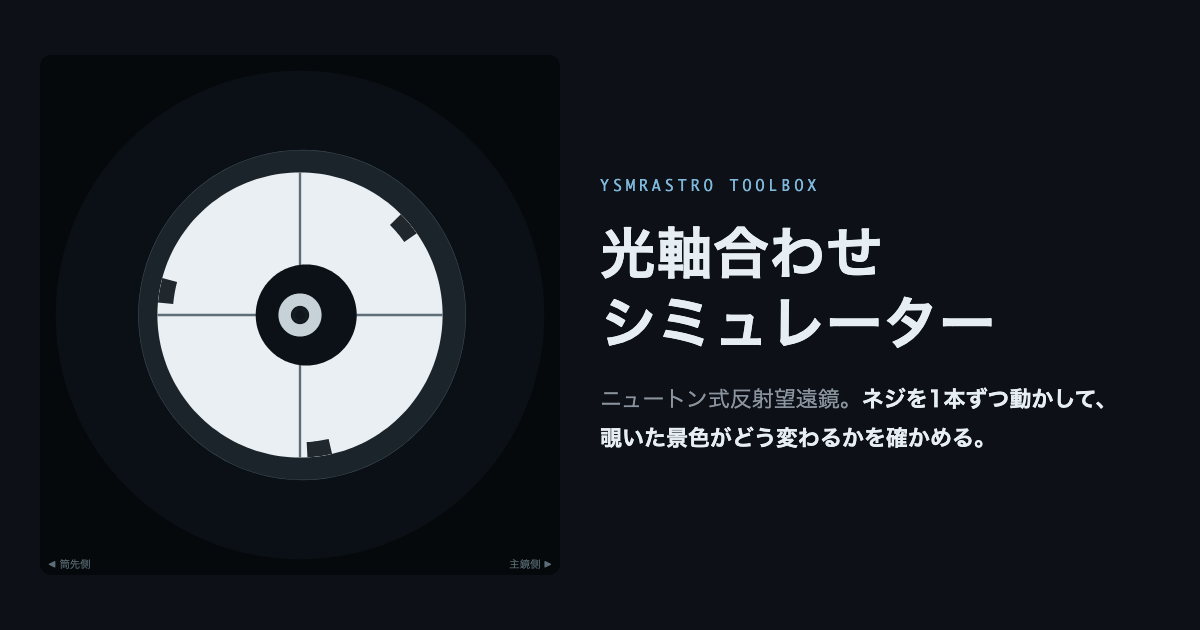
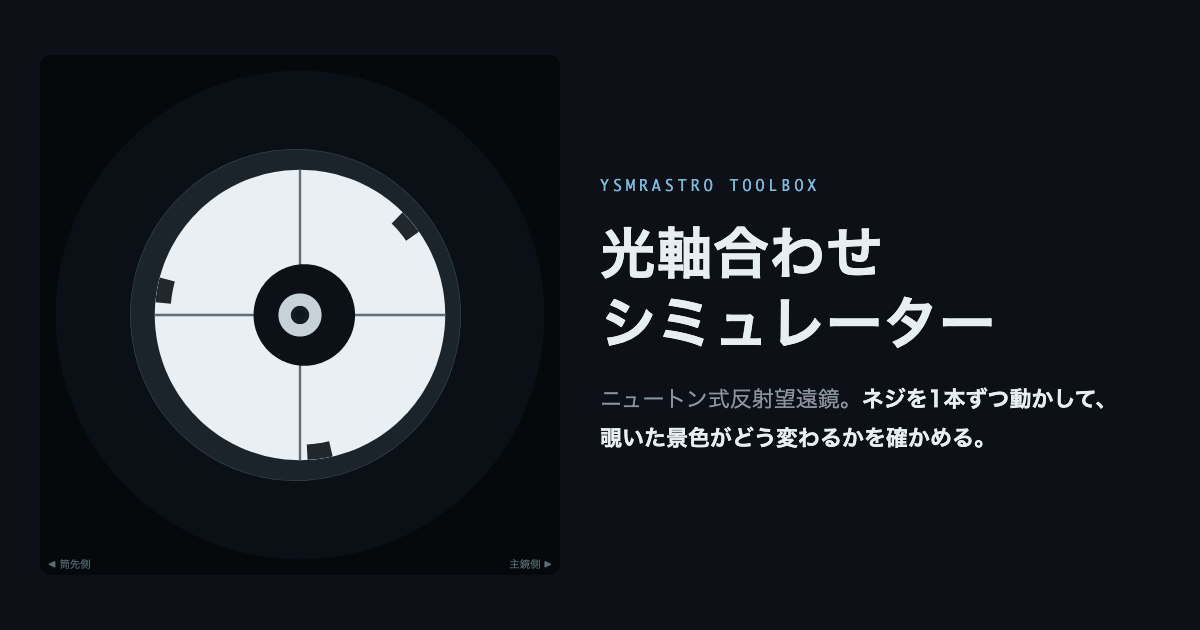
光軸合わせシミュレーター: 前提を公開済みの第1回・第2回に戻す
さとしさんの指摘。第3回はまだ執筆中で、前提にするに足る状態ではない。

## まずかったこと

書きかけの記事のために写真から逆算した値を既定値にし、そこから出る結論
まで公開ページに書いていた。ここは公開物なので、記事より先に出てしまう。

## 直した

数値の前提を、公開済みの第1回・第2回だけに置いた。

  交点から焦点面まで   190mm   （第1回の仮定）
  オフセット           2.714mm （上から決まる値。第1回）

これで光の切り口は斜鏡のまんなかに収まる ── 第2回の図5がそのまま出る。
このページが二分法で解くオフセットも 2.714mm で、第1回の値と一致する。

「実機と照合した」の節と、そこから出る話（実機はより多くずらしてある、
輪の太いのは主鏡側、など）は全部落とした。代わりに、手で解ける値との
検算だけを載せている。

  切り口が鏡の中心に来るオフセット  2.714mm
  光の切り口／斜鏡  長軸 0.8530 ／ 短軸 0.8487
  鏡の余り          長軸の端 4.68mm ／ 短軸の端 3.40mm

長軸と短軸で余りが違う（4.68 と 3.40）。切り口の楕円のほうが少しだけ
細長いため。一周同じ太さではない。

## 仮の値であることを画面に出した

寸法（口径・焦点距離・斜鏡短径・差込口）以外は全部仮の値で、交点から
焦点面まで・覗き穴から交点まで・アイピースの裏側の寸法は未実測である、
と「数値の前提」の表に書いた。この4つを測れば絵は一点に決まる。

OFFSET は L から決まる従属値なので、L を変えたら一緒に直す必要がある。
ページが OFFSET_IDEAL を解いて表示するので、ずれれば画面に出る。

?v= は 1.3.0。絵が変わったので ogp.png も作り直した。

🤖 Generated with [Claude Code](https://claude.com/claude-code)

https://claude.ai/code/session_01AnMYFrmn61oSqMNSD4B7oT

diff --git a/collimation/index.html b/collimation/index.html
@@ -28,7 +28,7 @@
   <link rel="stylesheet" href="../shared/css/reset.css">
   <link rel="stylesheet" href="../shared/css/components.css">
   <link rel="stylesheet" href="../shared/css/layout.css">
-  <link rel="stylesheet" href="style.css?v=1.2.1">
+  <link rel="stylesheet" href="style.css?v=1.3.0">
 </head>
 <body>
 
@@ -123,8 +123,10 @@
       <h3>構造</h3>
       <p><b>スパイダーの4本は均一に張ってあり、台は筒の中心軸の上にあります。</b>
          オフセットはスパイダーで作るものではなく、<b>鏡を土台のどこに貼るか</b>で作ります ──
-         土台の軸から、面に沿って主鏡側へ 3.95mm ずらして貼ってある、という形にしてあります。
+         土台の軸から、面に沿って主鏡側へ <b>2.714mm</b> ずらして貼ってある、という形にしてあります。
          だから貼り付けの向きが回ると、オフセットの向きも一緒に回ります。</p>
+      <p>台ごと寄せてオフセットを作ると、<b>スパイダーの交点（2回反射）が主鏡の中心から 4% 以上外れます。</b>
+         構造どおりなら 0% です。</p>
       <p>斜鏡の押しネジ3本と引きネジ1本は、<b>ステム軸（＝筒の中心軸）に沿って</b>効きます。
          3本を同じだけ回しても傾かず、前後に動くだけです。</p>
       <p><b>「斜鏡の回転」は、中央の引きネジをゆるめて土台の柱ごと回す動き</b>です。
@@ -133,38 +135,40 @@
          1° 回すだけで、主鏡の像は視野の 12.8%（主鏡の見かけの半径に対して）ずれます。
          だから回転は、傾きを合わせる前に決めておくものです。</p>
 
-      <p><b>合っている状態でも、光の切り口は鏡のまんなかに来ません。</b>
-         切り口が鏡の中心にちょうど来るオフセットは <b>2.54mm</b> ですが、ここでは <b>3.95mm</b> を
-         仮定しているためです。<b>2.54mm という値そのものも、交点から焦点面までを 178mm と
-         置いた結果</b>です ── 190mm と置けば 2.71mm になります。ここも未実測です。この 3.95mm は実測ではなく、<b>覗いた写真からの逆算</b>
-         ── 斜鏡の縁がどれだけ主鏡側へ寄って見えるかから求めた値です。
-         第1回で説明した「明るさが対称になる量」より多い、というのが実機を測って出てきた話で、
-         <b>覗き穴から交点までの距離を測れば一点に決まります。</b></p>
-
-      <h3>実機と照合した</h3>
+      <h3>数値の前提</h3>
       <p>BKP130（口径 130mm・焦点距離 650mm・F5・斜鏡短径 45mm・差込口 2インチ）。
-         合っている状態の見え方を、実写を測った値と突き合わせてあります。</p>
+         <b>寸法以外は、すべて仮の値です。</b></p>
       <table class="cl-read">
-        <tr><th>斜鏡の縁／主鏡の縁 の大きさ比</th><td>1.149（実測 1.153）</td></tr>
-        <tr><th>斜鏡の縁の偏心</th><td>1.45% 主鏡側（実測 1.31% 主鏡側）</td></tr>
-        <tr><th>斜鏡のシルエットの偏心</th><td>4.36% 主鏡側（実測 4.73% 主鏡側）</td></tr>
-        <tr><th>シルエットの見かけ半径</th><td>35.4%（実測 35.4%）</td></tr>
-        <tr><th>輪の太さ</th><td>1.21 倍・太いのは主鏡側（実測 1.29 倍・主鏡側）</td></tr>
+        <tr><th>交点から焦点面まで</th><td>190mm ── <b>未実測</b></td></tr>
+        <tr><th>オフセット</th><td>2.714mm ── 上の 190mm から決まる値（切り口を鏡の中心に合わせる量）</td></tr>
+        <tr><th>覗き穴から交点まで</th><td>199mm ── <b>未実測</b></td></tr>
+        <tr><th>アイピースの裏側／覗き穴の半径</th><td>9.52mm／4.03mm ── <b>未実測</b></td></tr>
+      </table>
+      <p><b>この4つを実機で測れば、絵は一点に決まります。</b>いまは仮の値で描いているので、
+         実機の見え方とは細かいところが違うはずです。</p>
+
+      <h3>検算</h3>
+      <p>幾何が正しく組めているかは、手で解ける値と突き合わせてあります。</p>
+      <table class="cl-read">
+        <tr><th>切り口が鏡の中心に来るオフセット</th><td>2.714mm（このページが二分法で解いた値）</td></tr>
+        <tr><th>光の切り口／斜鏡（長軸）</th><td>0.8530</td></tr>
+        <tr><th>光の切り口／斜鏡（短軸）</th><td>0.8487</td></tr>
+        <tr><th>鏡の余り</th><td>長軸の端 4.68mm ／ 短軸の端 3.40mm</td></tr>
       </table>
 
       <h3>近似の限界</h3>
       <ul>
-        <li>交点〜焦点面 178mm、覗き穴は交点から 199mm、オフセット 3.95mm は<b>まだ実測できていない仮定値</b>です</li>
         <li>主鏡を近軸で扱っているので、視野の端のほうの 2回・3回の像はわずかに歪みます</li>
-        <li><b>返ってくる像（3回）の大きさ</b>は覗き穴の距離にとても敏感です ── 焦点のすぐ外側に物体があるためで、
-            実写でも撮るたびに変わります。<b>位置のほうは安定しています。</b></li>
+        <li><b>返ってくる像（3回）の大きさ</b>は、覗き穴の距離と裏側の寸法で決まります。
+            どちらも仮の値なので、実機と同じ大きさにはなりません。<b>位置のほうは安定しています。</b></li>
         <li>主鏡の押しネジは<b>傾きだけ</b>を効かせています。3本を同じだけ回すと本当はピントが前後しますが、
             そうすると 3回反射の像の大きさが暴れて見づらいので入れていません</li>
+        <li>斜鏡の土台の柱は、ステム軸が筒の中心軸と平行だとしています（Synta 型の想定）</li>
       </ul>
     </div>
   </details>
 </div>
 
-<script src="app.js?v=1.2.1"></script>
+<script src="app.js?v=1.3.0"></script>
 </body>
 </html>

diff --git a/collimation/app.js b/collimation/app.js
@@ -23,9 +23,9 @@ const P = {
   F_PM   : 650,     // 主鏡の焦点距離
   SEC_A  : 45*Math.SQRT2/2,  // 斜鏡の長半径 31.82
   SEC_B  : 45/2,             // 斜鏡の短半径 22.5
-  L      : 472,     // 交点の z（＝650 − 交点から焦点面まで 178）
-  EYE    : 199,     // 覗き穴の、交点からの距離
-  OFFSET : 3.95,    // オフセット（面に沿って、主鏡側へ）
+  L      : 460,     // 交点の z（＝650 − 交点から焦点面まで 190。第1回の仮定）
+  EYE    : 199,     // 覗き穴の、交点からの距離（仮の値・未実測）
+  OFFSET : 2.714,   // オフセット（面に沿って、主鏡側へ。第1回の値）
   R_FIELD: 25.4,    // ドローチューブの内半径（2インチ）
   D_FIELD: 46,      // 視野環（ドローチューブの先）の、交点からの距離
   R_TUBE : 75,      // 筒の内半径
@@ -33,8 +33,8 @@ const P = {
   R_PSCR : 55,      // 主鏡の押しネジの配置半径
   MARK_IN: 2.13,    // センターマークの穴の半径
   MARK_OUT:3.90,    // センターマークの外半径
-  EPB_R  : 9.52,    // アイピースの裏側（銀の面）の半径
-  EPB_H  : 4.03,    // 覗き穴の半径
+  EPB_R  : 9.52,    // アイピースの裏側（銀の面）の半径（仮の値・未実測）
+  EPB_H  : 4.03,    // 覗き穴の半径（仮の値・未実測）
   CLIPS  : [10,140,262]  // 押さえの爪（度）
 };
 
@@ -360,7 +360,7 @@ function drawView(g,o,guide){
   ctx.textAlign='right'; ctx.fillText('主鏡側 ▶',w-8,h-fv2); ctx.textAlign='left';
 }
 
-// 最小二乗で円をあてはめる（第3回の measure_center.py と同じ代数解法）。
+// 最小二乗で円をあてはめる（代数解法）。
 // 射影された楕円は点の並びが偏るので、重心を中心にすると値がずれる。
 function fitCircle(pts){
   if(!pts||pts.length<3) return null;
@@ -739,15 +739,15 @@ function faceNote(g){
   const rp=coneRadius(g,g.fu), rm=coneRadius(g,V.mul(g.fu,-1));
   if(rp===null||rm===null){ el.textContent=''; return; }
   const d=(rp-rm)/2;
-  const side = d>0 ? '筒先側' : '主鏡側';
-  el.innerHTML =
-    'オフセットは <b>'+P.OFFSET.toFixed(2)+'mm</b> と仮定しています。'+
-    '光の切り口が鏡のまんなかにちょうど来るのは <b>'+OFFSET_IDEAL.toFixed(2)+'mm</b>'+
-    '（交点から焦点面まで '+(P.F_PM-P.L).toFixed(0)+'mm と置いた場合。190mm なら 2.71mm）── '+
-    'つまり<b>この鏡は、そのぶん多くずらして貼ってある</b>ことになります。'+
-    'だから合っていても、切り口は '+Math.abs(d).toFixed(2)+'mm だけ'+side+'へ寄ります。'+
-    '<br>この 2つの差は実測ではなく、覗いた写真からの逆算です。'+
-    '<b>覗き穴から交点までの距離を実機で測れば、一点に決まります。</b>';
+  const base =
+    '光の切り口が鏡のまんなかにちょうど来るオフセットは <b>'+OFFSET_IDEAL.toFixed(3)+'mm</b>'+
+    '（交点から焦点面までを '+(P.F_PM-P.L).toFixed(0)+'mm と置いた場合）。'+
+    'ここではその値を使っています。';
+  el.innerHTML = Math.abs(d)<0.05
+    ? base+'<b>だから切り口は、鏡のまんなかに収まります。</b>'+
+      'オフセットは、この2つの中心を合わせるための操作でした。'
+    : base+'いまは <b>'+P.OFFSET.toFixed(3)+'mm</b> なので、'+
+      '切り口が '+Math.abs(d).toFixed(2)+'mm だけ'+(d>0?'筒先側':'主鏡側')+'へ寄っています。';
 }
 
 function render(){

diff --git a/collimation/style.css b/collimation/style.css
@@ -5,7 +5,7 @@
   --tb-font-size-sm: 0.875rem;   /* 14px */
   --tb-font-size-lg: 1.125rem;   /* 18px */
 
-  /* 反射の回数の色（note 第3回の図と揃える） */
+  /* 反射の回数の色 */
   --cl-r0: #63B6D8;
   --cl-r1: #E5A052;
   --cl-r2: #B39BDB;

diff --git a/collimation/README.md b/collimation/README.md
@@ -9,7 +9,7 @@ https://ysmrastro.github.io/toolbox/collimation/
 
 | ペイン | 中身 |
 |---|---|
-| センタリングアイピースの視野 | 覗いた景色。左が筒先側、右が主鏡側（実写と同じ向き） |
+| センタリングアイピースの視野 | 覗いた景色。左が筒先側、右が主鏡側 |
 | 筒の断面 | 斜鏡の位置と角度。覗き穴から出した視線が、戻ってきたときどれだけ外れるかも出す |
 | 斜鏡を面の正面から | 鏡の楕円と、主鏡から来る光の切り口 |
 | 調整パラメータ | まんなかが合っている状態。数字をタップすると 0 に戻る |
@@ -43,7 +43,7 @@ https://ysmrastro.github.io/toolbox/collimation/
 だから**貼り付けの向きが回ると、オフセットの向きも一緒に回る。**
 
 最初はオフセットをスパイダーの台ごと寄せて作っていた。それだと**スパイダーの交点（2回反射）が
-主鏡の中心から 4.4% 外れる**。実測は 1.68%（ほぼ中心）なので、構造が違うとすぐ分かる。
+主鏡の中心から 4% 以上外れる**。構造どおりなら 0%。
 
 斜鏡の押しネジ3本と引きネジ1本は、**ステム軸（＝筒の中心軸）に沿って**効く。
 3本を同じだけ回しても傾かず、前後に動くだけ。
@@ -53,51 +53,44 @@ https://ysmrastro.github.io/toolbox/collimation/
 変わるのではなく、**視野そのものが動く。**1° で主鏡の像が視野の 12.8% ずれる。
 だから範囲は ±6°。**傾きを合わせる前に決めるもの**、という順番がここに出る。
 
-### 合っていても、光の切り口は鏡のまんなかに来ない
-
-**切り口が鏡の中心にちょうど来るオフセットは 2.54mm。**いま仮定しているのは **3.95mm** なので、
-差の **1.41mm** ぶん、切り口が筒先側へ寄る。斜鏡ペインの下にこの数字を出している
-（`OFFSET_IDEAL` を起動時に二分法で解いている）。
-
-3.95mm は**実測ではなく、覗いた写真からの逆算**（斜鏡の縁がどれだけ主鏡側へ寄って見えるか）。
-第1回で説明した「明るさが対称になる量」（2.714mm）より多い、というのが第3回で出てきた話。
-**覗き穴から交点までの距離を実機で測れば一点に決まる。**
-
-## 合っている状態を実測と照合した
-
-| | モデル | 実測 |
-|---|---|---|
-| 斜鏡の縁／主鏡の縁 の大きさ比 | 1.149 | 1.153 |
-| 斜鏡の縁の偏心 | 1.45%（主鏡側） | 1.31%（主鏡側） |
-| 斜鏡のシルエットの偏心 | 4.36%（主鏡側） | 4.73%（主鏡側） |
-| シルエットの見かけ半径 | 35.4% | 35.4% |
-| スパイダーの交点 | 0.00% | 1.68% |
-| 輪の太さ（太い側／細い側） | 1.21 倍・太いのは主鏡側 | 1.29 倍・太いのは主鏡側 |
-
-実測は BKP130 の実写（光軸を合わせた状態）に円をあてはめて出したもの。
-**値をいじったらここを必ず再確認する。**
-
-読み取りは重心ではなく**円のあてはめ**で出している。射影された楕円は点の並びが偏るので、
-重心を中心にすると斜鏡の縁の偏心が 1.45% → 7.90% に化ける。
-
-## まだ実測できていない仮定値
+## 数値の前提 ── 寸法以外はすべて仮の値
 
 `app.js` の `P` にまとめてある。**実機を測ったらここだけ差し替えればいい。**
 
 | 記号 | いまの値 | 何か |
 |---|---|---|
-| `L` | 472 | 交点の z（＝650 − 交点から焦点面まで 178mm） |
-| `EYE` | 199 | 覗き穴の、交点からの距離 |
-| `OFFSET` | 3.95 | オフセット（面に沿って、主鏡側へ） |
-| `EPB_R` / `EPB_H` | 9.52 / 4.03 | アイピースの裏側（銀の面）と覗き穴の半径 ── 実写の見え方から逆算した値 |
+| `L` | 460 | 交点の z（＝650 − 交点から焦点面まで 190）。**未実測** |
+| `OFFSET` | 2.714 | オフセット（面に沿って、主鏡側へ）。上の 190mm から決まる値 |
+| `EYE` | 199 | 覗き穴の、交点からの距離。**未実測** |
+| `EPB_R` / `EPB_H` | 9.52 / 4.03 | アイピースの裏側（銀の面）と覗き穴の半径。**未実測** |
 
-`EPB_R` / `EPB_H` は `EYE` を変えると辻褄が合わなくなる。**3つはセットで測り直すこと。**
+**この4つを測れば、絵は一点に決まる。**いまは仮の値なので、実機の見え方とは細かいところが違う。
+
+`OFFSET` は `L` から決まる従属値（切り口を鏡の中心に合わせる量）なので、
+**`L` を変えたら必ず一緒に直す。**ページ側は `OFFSET_IDEAL` を起動時に二分法で解いて
+表示するので、ずれていれば画面に出る。
+
+## 検算
+
+幾何が正しく組めているかは、手で解ける値と突き合わせてある。
+
+| | このページ | 手計算 |
+|---|---|---|
+| 切り口が鏡の中心に来るオフセット | 2.714mm | 2.714mm |
+| 光の切り口／斜鏡（長軸） | 0.8530 | 0.8530 |
+| 光の切り口／斜鏡（短軸） | 0.8487 | 0.8487 |
+| 鏡の余り | 長軸の端 4.68mm ／ 短軸の端 3.40mm | 同左 |
+
+**数値をいじったらここを必ず再確認する。**
+
+読み取りは重心ではなく**円のあてはめ**で出している。射影された楕円は点の並びが偏るので、
+重心を中心にすると斜鏡の縁の偏心が化ける（3.08% → 9% 台）。
 
 ## 近似の限界
 
 - 主鏡を近軸で扱っているので、視野の端のほうの 2回・3回の像はわずかに歪む
-- **返ってくる像（3回）の大きさ**は、覗き穴の距離にとても敏感。焦点のすぐ外側に物体があるため。
-  実写でも撮るたびに変わっている。**位置のほうは安定している**ので、光軸合わせの話には影響しない
+- **返ってくる像（3回）の大きさ**は、覗き穴の距離と裏側の寸法で決まる。どちらも仮の値なので、
+  実機と同じ大きさにはならない。**位置のほうは安定している**ので、光軸合わせの話には影響しない
 - 主鏡の押しネジは**傾きだけ**を効かせている。3本を同じだけ回すと本当はピントが前後するが、
   それをやると 3回反射の像の大きさが暴れて見づらいので入れていない
 - 斜鏡の土台の柱は、ステム軸が筒の中心軸と平行だとしている（Synta 型の想定）

diff --git a/CLAUDE.md b/CLAUDE.md
@@ -112,31 +112,33 @@ JS で `el.hidden = true` としても消えない。meteor-settings では
 
 ## 光軸合わせシミュレーターについて
 
-ニュートン式反射望遠鏡の光軸を、ネジ単位で動かして確かめる。note 連載「ニュートン式反射望遠鏡」
-第3回で詰めた**反射の回数で層に分けるモデル**をそのまま実装してある。詳細は
-`collimation/README.md`。触る前に読むべき点だけ挙げる。
+ニュートン式反射望遠鏡の光軸を、ネジ単位で動かして確かめる。詳細は `collimation/README.md`。
+触る前に読むべき点だけ挙げる。
 
-**合っている状態の見え方は実機の実写と照合してある**（斜鏡の縁の偏心 1.45%／実測 1.31%、
-シルエットの偏心 4.36%／4.73%、輪の太さ 1.21倍・主鏡側／1.29倍・主鏡側 など）。
-**幾何に手を入れたら、この表を必ず再確認する。**
+**数値の前提は第1回・第2回（公開済み）だけに置く。** 交点から焦点面まで 190mm、
+オフセット 2.714mm。**書きかけの記事から出た値を既定値にしない。**
+一度、書きかけの記事のために写真から逆算した値を既定値にし、そこから出る結論まで
+公開ページに書いてしまって差し戻している。**ここは公開物で、記事より先に出てしまう。**
+
+**寸法以外はすべて仮の値。** `L`・`EYE`・`EPB_R`・`EPB_H` は未実測。画面にもそう書いてある。
+`OFFSET` は `L` から決まる従属値なので、`L` を変えたら必ず一緒に直す。
+
+**検算は手で解ける値と突き合わせる**（切り口が鏡の中心に来るオフセット 2.714mm、
+切り口／斜鏡 0.8530 / 0.8487、鏡の余り 4.68 / 3.40mm）。**幾何を触ったら再確認する。**
 
 **オフセットはスパイダーで作らない。** 4本は均一に張ってあり、台は筒の中心軸の上にある。
-オフセットは**鏡を土台のどこに貼るか**で作る。台ごと寄せて作ると、スパイダーの交点（2回反射）が
-主鏡の中心から 4.4% 外れる（実測は 1.68%）。この形で一度間違えている。
+オフセットは**鏡を土台のどこに貼るか**で作る。台ごと寄せると、スパイダーの交点（2回反射）が
+主鏡の中心から 4% 以上外れる。構造どおりなら 0%。この形で一度間違えている。
 
 **斜鏡の回転は「土台の柱ごと回す」動き。** 中央の引きネジをゆるめて柱を回すと、45°に切った面が
 まるごと回って鏡の法線が円錐を描く。楕円の向きだけが変わるのではなく**視野そのものが動く**
 （1°で主鏡の像が視野の 12.8%）。最初は面の中で鏡だけ回す形にしていて、これも直している。
 
-**合っている状態でも、光の切り口は斜鏡のまんなかに来ない。** バグではない。切り口が中心に来る
-オフセットは 2.54mm で、仮定しているのは 3.95mm（写真からの逆算）。その差 1.41mm ぶん筒先側へ
-寄る。分かりにくいので斜鏡ペインの下に数字と理由を出してある。
-
 **3回反射の像は目より先に結ぶ実像になる。** 投影で光線の向きを裏返さないと「目の後ろ」と
 判定されて、3回反射の層がまるごと描かれない。
 
 **読み取りは重心ではなく円のあてはめ。** 射影された楕円は点の並びが偏るので、重心を中心にすると
-斜鏡の縁の偏心が 1.45% → 7.90% に化ける。
+斜鏡の縁の偏心が化ける。
 
 **スマホでは上の絵を sticky にして、タブで3枚を切り替える。** 隠れているペインは
 `clientWidth` が 0 になるので `setup()` が null を返して描画を飛ばす。タブ切り替えで再描画する。
